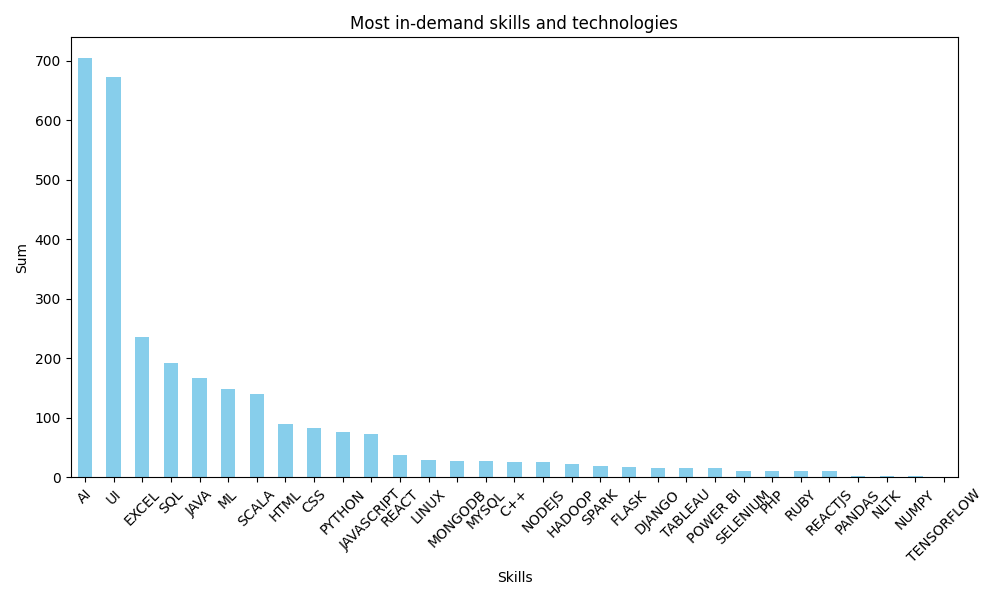
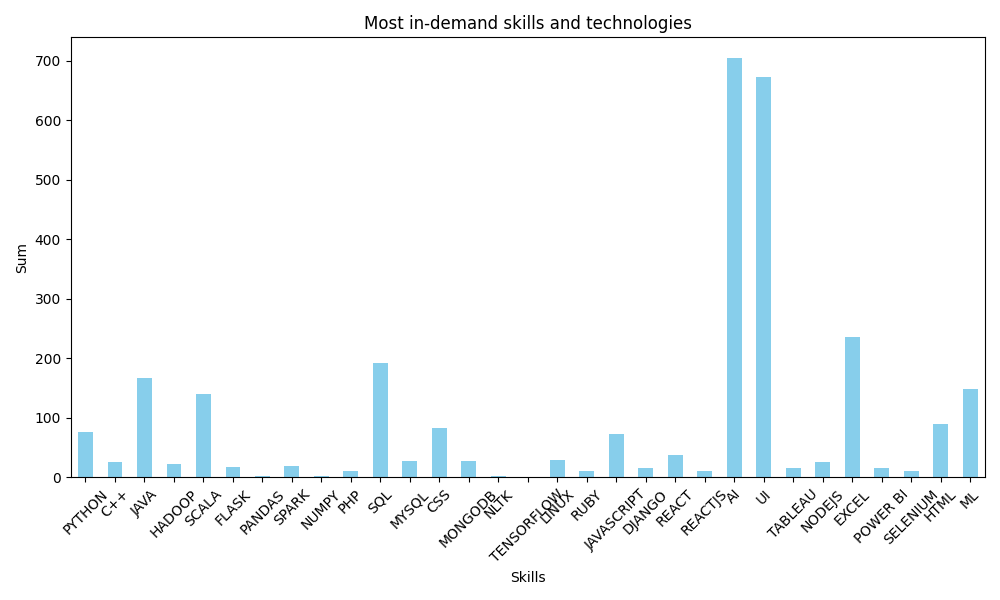
changes

Changed region(s): [[0.062, 0.09, 0.992, 0.99], [0.341, 0.03, 0.682, 0.06]]

diff --git a/main.py b/main.py
@@ -82,7 +82,7 @@ def bar_plot_skills(path):
             ]
         ]
         .sum()
-        .sort_values(ascending=False)
+        #.sort_values(ascending=False)
     )
 
     plt.figure(figsize=(10, 6))
@@ -99,7 +99,7 @@ def bar_plot_skills(path):
 
 
 def hist_plot(path, variable):
-    df = pd.read_csv(path)
+    df = pl.read_csv(path)
     plt.hist(
         df[[variable]],
         bins=10,
